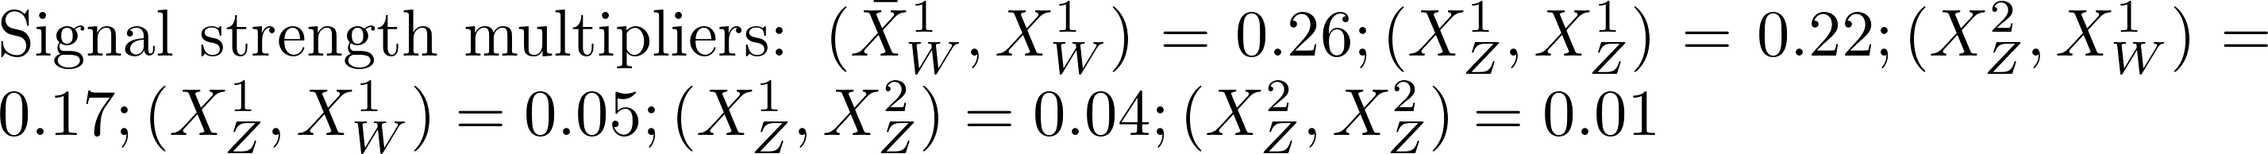
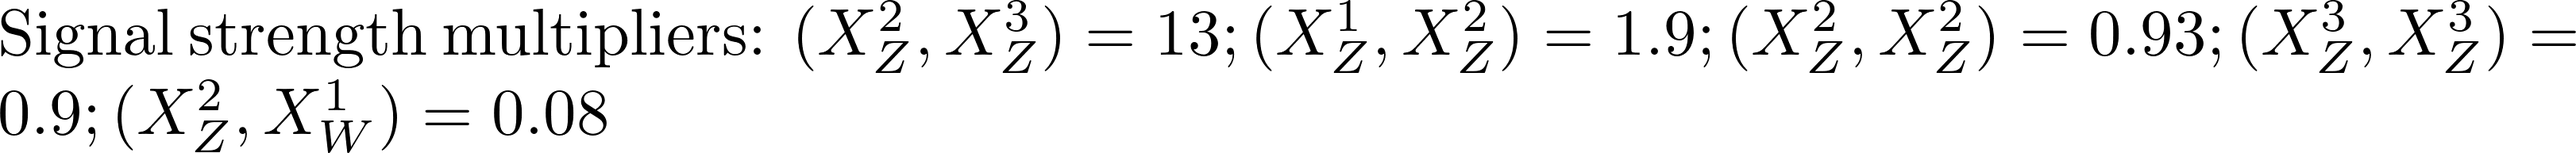
automated update by plotHiscore.py to walk322_2:     K=-117.113 TL=7.41 walkerid=310

diff --git a/protomodels/walk322_2/rawnumbers.html b/protomodels/walk322_2/rawnumbers.html
@@ -1,17 +1,13 @@
 <table>
 <tr><th>Analysis Name</th><th>Type</th><th>Dataset</th><th>Topos</th><th>Observed</th><th>Expected</th><th>Approx &sigma;</th><th>Particles</th>
 </tr>
-<tr><td><a href=https://atlas.web.cern.ch/Atlas/GROUPS/PHYSICS/PAPERS/EXOT-2018-06/>ATLAS-EXOT-2018-06</a></td><td>em</td> <td>EM10</td><td>TChiISR, TChiWISRll, TChiWWISRqq, TChiZISRll, TChiZISRqq</td><td>413</td><td>359.00 +/- 10.00</td><td style="text-align:right">2.4 &sigma;</td><td style="text-align:right">X<sup>1</sup><sub>W</sub>, X<sup>2</sup><sub>Z</sub>, X<sup>1</sup><sub>Z</sub></td></tr>
-<tr><td><a href=http://cms-results.web.cern.ch/cms-results/public-results/publications/EXO-20-004/>CMS-EXO-20-004</a></td><td>comb</td> <td>-</td><td>TChiISR, TChiWISRll, TChiWWISRqq, TChiZISRll, TChiZISRqq</td><td> 9e+01 fb </td><td> 7e+01 fb</td><td style="text-align:right">2.3 &sigma;</td><td style="text-align:right">X<sup>1</sup><sub>W</sub>, X<sup>2</sup><sub>Z</sub>, X<sup>1</sup><sub>Z</sub></td></tr>
-<tr><td><a href=https://atlas.web.cern.ch/Atlas/GROUPS/PHYSICS/PAPERS/SUSY-2018-06/>ATLAS-SUSY-2018-06</a></td><td>em</td> <td>SR_ISR</td><td>TChiWZoff</td><td>30</td><td>23.40 +/- 2.10</td><td style="text-align:right">1.1 &sigma;</td><td style="text-align:right">X<sup>1</sup><sub>W</sub>, X<sup>2</sup><sub>Z</sub>, X<sup>1</sup><sub>Z</sub></td></tr>
-<tr><td><a href=https://atlas.web.cern.ch/Atlas/GROUPS/PHYSICS/PAPERS/SUSY-2013-02/>ATLAS-SUSY-2013-02</a></td><td>em</td> <td>SR4jlm</td><td>T1</td><td>2169</td><td>2120.00 +/- 110.00</td><td style="text-align:right">0.4 &sigma;</td><td style="text-align:right">X<sup>1</sup><sub>W</sub>, X<sup>2</sup><sub>Z</sub>, X<sup>1</sup><sub>Z</sub></td></tr>
-<tr><td><a href=https://atlas.web.cern.ch/Atlas/GROUPS/PHYSICS/PAPERS/SUSY-2018-16/>ATLAS-SUSY-2018-16-hino</a></td><td>em</td> <td>SR_ewk_2l_low</td><td>TChiZoff</td><td>199</td><td>198.30 +/- 11.80</td><td style="text-align:right">0.0 &sigma;</td><td style="text-align:right">X<sup>2</sup><sub>Z</sub>, X<sup>1</sup><sub>Z</sub></td></tr>
-<tr><td><a href=https://atlas.web.cern.ch/Atlas/GROUPS/PHYSICS/PAPERS/SUSY-2013-11/>ATLAS-SUSY-2013-11</a></td><td>em</td> <td>WWa-DF</td><td>TChiWWoff</td><td>70</td><td>73.60 +/- 7.90</td><td style="text-align:right">-0.3 &sigma;</td><td style="text-align:right">X<sup>1</sup><sub>W</sub>, X<sup>1</sup><sub>Z</sub></td></tr>
-<tr><td><a href=https://atlas.web.cern.ch/Atlas/GROUPS/PHYSICS/PAPERS/SUSY-2013-12/>ATLAS-SUSY-2013-12</a></td><td>em</td> <td>SR0tau_a_Bin16</td><td>TChiWZoff</td><td>3</td><td>4.60 +/- 1.70</td><td style="text-align:right">-0.7 &sigma;</td><td style="text-align:right">X<sup>1</sup><sub>W</sub>, X<sup>2</sup><sub>Z</sub>, X<sup>1</sup><sub>Z</sub></td></tr>
-<tr><td><a href=http://cms-results.web.cern.ch/cms-results/public-results/publications/SUS-16-039/index.html>CMS-SUS-16-039-agg</a></td><td>comb</td> <td>-</td><td>TChiWZoff</td><td> 2 fb </td><td> 1 fb</td><td style="text-align:right">-2.2 &sigma;</td><td style="text-align:right">X<sup>1</sup><sub>W</sub>, X<sup>2</sup><sub>Z</sub>, X<sup>1</sup><sub>Z</sub></td></tr>
-<tr><td><a href=http://cms-results.web.cern.ch/cms-results/public-results/publications/SUS-16-048/index.html>CMS-SUS-16-048</a></td><td>comb</td> <td>-</td><td>TChiWZoff</td><td> 2 fb </td><td> 2 fb</td><td style="text-align:right">-2.3 &sigma;</td><td style="text-align:right">X<sup>1</sup><sub>W</sub>, X<sup>2</sup><sub>Z</sub>, X<sup>1</sup><sub>Z</sub></td></tr>
+<tr><td><a href=https://atlas.web.cern.ch/Atlas/GROUPS/PHYSICS/PAPERS/EXOT-2018-06/>ATLAS-EXOT-2018-06</a></td><td>em</td> <td>EM10</td><td>TChiISR</td><td>413</td><td>359.00 +/- 10.00</td><td style="text-align:right">2.4 &sigma;</td><td style="text-align:right">X<sup>2</sup><sub>Z</sub>, X<sup>1</sup><sub>Z</sub></td></tr>
+<tr><td><a href=http://cms-results.web.cern.ch/cms-results/public-results/publications/SUS-20-004/>CMS-SUS-20-004</a></td><td>comb</td> <td>-</td><td>TChiHH</td><td> 0.2 fb </td><td> 0.2 fb</td><td style="text-align:right">2.1 &sigma;</td><td style="text-align:right">X<sup>3</sup><sub>Z</sub>, X<sup>2</sup><sub>Z</sub></td></tr>
+<tr><td><a href=http://cms-results.web.cern.ch/cms-results/public-results/publications/EXO-20-004/>CMS-EXO-20-004</a></td><td>comb</td> <td>-</td><td>TChiISR</td><td> 3e+01 fb </td><td> 3e+01 fb</td><td style="text-align:right">1.0 &sigma;</td><td style="text-align:right">X<sup>2</sup><sub>Z</sub>, X<sup>1</sup><sub>Z</sub></td></tr>
+<tr><td><a href=http://cms-results.web.cern.ch/cms-results/public-results/publications/EXO-19-010/>CMS-EXO-19-010</a></td><td>em</td> <td>SR_nlay5</td><td>TDTM2F</td><td>6</td><td>3.70 +/- 1.24</td><td style="text-align:right">0.8 &sigma;</td><td style="text-align:right">X<sup>1</sup><sub>W</sub>, X<sup>2</sup><sub>Z</sub>, X<sup>1</sup><sub>Z</sub></td></tr>
+<tr><td><a href=https://atlas.web.cern.ch/Atlas/GROUPS/PHYSICS/PAPERS/SUSY-2018-42/>ATLAS-SUSY-2018-42</a></td><td>em</td> <td>SR300_High_long</td><td>TDTM2F</td><td>7</td><td>5.10 +/- 0.50</td><td style="text-align:right">0.7 &sigma;</td><td style="text-align:right">X<sup>1</sup><sub>W</sub>, X<sup>2</sup><sub>Z</sub>, X<sup>1</sup><sub>Z</sub></td></tr>
+<tr><td><a href=https://atlas.web.cern.ch/Atlas/GROUPS/PHYSICS/PAPERS/SUSY-2018-19/>ATLAS-SUSY-2018-19</a></td><td>em</td> <td>SR_EW</td><td>TDTM2F</td><td>3</td><td>3.00 +/- 0.70</td><td style="text-align:right">-0.2 &sigma;</td><td style="text-align:right">X<sup>1</sup><sub>W</sub>, X<sup>2</sup><sub>Z</sub>, X<sup>1</sup><sub>Z</sub></td></tr>
+<tr><td><a href=https://atlas.web.cern.ch/Atlas/GROUPS/PHYSICS/PAPERS/SUSY-2016-06/>ATLAS-SUSY-2016-06</a></td><td>em</td> <td>SR_EW</td><td>TDTM2F</td><td>9</td><td>11.80 +/- 3.10</td><td style="text-align:right">-0.7 &sigma;</td><td style="text-align:right">X<sup>1</sup><sub>W</sub>, X<sup>2</sup><sub>Z</sub>, X<sup>1</sup><sub>Z</sub></td></tr>
 </table>
 <table style='color:grey'>
-<tr><th>Not in Best Combo</th><th>Type</th><th>Dataset</th><th>Topos</th><th>Observed</th><th>Expected</th><th>Approx &sigma;</th><th>Particles</th><tr><td><a href=https://atlas.web.cern.ch/Atlas/GROUPS/PHYSICS/PAPERS/SUSY-2019-09/>ATLAS-SUSY-2019-09</a></td><td>comb</td> <td>-</td><td>TChiWZoff</td><td> 0.4 fb </td><td> 0.3 fb</td><td style="text-align:right">1.1 &sigma;</td><td style="text-align:right">X<sup>1</sup><sub>W</sub>, X<sup>2</sup><sub>Z</sub>, X<sup>1</sup><sub>Z</sub></td></tr>
-<tr><td><a href=http://cms-results.web.cern.ch/cms-results/public-results/publications/SUS-18-004/index.html>CMS-SUS-18-004-wbplus-agg</a></td><td>comb</td> <td>-</td><td>TChiWZoff</td><td> 0.05 fb </td><td> 0.05 fb</td><td style="text-align:right">-2.3 &sigma;</td><td style="text-align:right">X<sup>1</sup><sub>W</sub>, X<sup>2</sup><sub>Z</sub>, X<sup>1</sup><sub>Z</sub></td></tr>
-</table>
+<tr><th>Not in Best Combo</th><th>Type</th><th>Dataset</th><th>Topos</th><th>Observed</th><th>Expected</th><th>Approx &sigma;</th><th>Particles</th></table>

diff --git a/protomodels/walk322_2/index.html b/protomodels/walk322_2/index.html
@@ -1,27 +1,27 @@
 <html>
 <body>
 <center>
-<table><td><h1>Current best protomodel: <i>K</i>=2.13, <i>TL</i>=12.03</h1><td><img height=60px src=https://smodels.github.io//protomodels/logos/protomodel_lego.png></table>
+<table><td><h1>Current best protomodel: <i>K</i>=-117.11, <i>TL</i>=7.41</h1><td><img height=60px src=https://smodels.github.io//protomodels/logos/protomodel_lego.png></table>
 </center>
-<b><a href=./hiscore.slha>ProtoModel</a> <a href=./pmodel.dict>(dict)</a> produced with <a href=https://smodels.github.io//docs/Validation321>database v3.2.1</a>, allowed_extr 0.0 in walker 301 step 0.</b> <br>
+<b><a href=./hiscore.slha>ProtoModel</a> <a href=./pmodel.dict>(dict)</a> produced with <a href=https://smodels.github.io//docs/Validation321>database v3.2.1</a>, allowed_extr 0.0 in walker 310 step 6.</b> <br>
 <table width=80%>
 <tr><td>
 <br><b>Critics:</b> passed both critics<br>
-<br><b>UL Critic: 1/2 analyses exclude</b><br>
-CMS-SUS-23-003:ul:: <span style='color: darkred;'>r<sub>obs</sub>=4.37, r<sub>exp</sub>=10.092</span><br>
-ATLAS-EXOT-2018-06:EM5:: <span style='color: darkgreen;'>r<sub>obs</sub>=1.321, r<sub>exp</sub>=1.369</span><br>
-CMS-EXO-20-004:SR_2018_11:: <span style='color: darkgreen;'>r<sub>obs</sub>=0.341, r<sub>exp</sub>=0.479</span><br>
-<br><b>LLHD Critic:</b> ATLAS-EXOT-2018-06:EM5, CMS-EXO-20-004:CMS-EXO-20-004:matrix.cov, ATLAS-SUSY-2013-11:WWa-DF:: <span style='color: darkred;'>r<sub>obs</sub>=1.09, r<sub>exp</sub>=2.25</span><br>
+<br><b>UL Critic: 0/2 analyses exclude</b><br>
+ATLAS-SUSY-2018-19:SR_EW:: <span style='color: darkgreen;'>r<sub>obs</sub>=0.806, r<sub>exp</sub>=0.784</span><br>
+CMS-EXO-19-010:SR_nlay6p:: <span style='color: darkgreen;'>r<sub>obs</sub>=0.542, r<sub>exp</sub>=0.332</span><br>
+ATLAS-EXOT-2018-06:EM12:: <span style='color: darkgreen;'>r<sub>obs</sub>=0.413, r<sub>exp</sub>=0.345</span><br>
+<br><b>LLHD Critic:</b> CMS-SUS-20-004:CMS-SUS-20-004:matrix.cov, ATLAS-SUSY-2018-19:SR_EW, CMS-EXO-19-010:SR_nlay6p, ATLAS-EXOT-2018-06:EM12, CMS-EXO-20-004:CMS-EXO-20-004:matrix.cov, ATLAS-SUSY-2016-06:SR_EW:: <span style='color: darkgreen;'>r<sub>obs</sub>=0.8, r<sub>exp</sub>=1.44</span><br>
 </ul>
-<td><img width=600px src=./texdoc.png?1793625420>
-<br><span style='font-size: smaller; color: darkred;'>Last updated: Mon Nov  2 14:17:00 2026</span>
-<br><br><b>17 predictions available. Highest r values are:</b><br><ul>
-<li><a href=https://cms-results.web.cern.ch/cms-results/public-results/publications/SUS-23-003/index.html>CMS-SUS-23-003</a>:ul:TChiWWoff r=4.37, r<sub>exp</sub>=10.09<br>
-<li><a href=https://atlas.web.cern.ch/Atlas/GROUPS/PHYSICS/PAPERS/EXOT-2018-06/>ATLAS-EXOT-2018-06</a>:EM5:TChiZISRqq,TChiWISRll,TChiWWISRqq,TChiISR,TChiZISRll r=1.32, r<sub>exp</sub>=1.37<br>
-<li><a href=http://cms-results.web.cern.ch/cms-results/public-results/publications/EXO-20-004/>CMS-EXO-20-004</a>:SR_2018_11:TChiZISRqq,TChiWISRll,TChiWWISRqq,TChiISR,TChiZISRll r=0.34, r<sub>exp</sub>=0.48<br>
-<li><a href=https://atlas.web.cern.ch/Atlas/GROUPS/PHYSICS/PAPERS/SUSY-2013-11/>ATLAS-SUSY-2013-11</a>:WWa-DF:TChiWWoff r=0.11, r<sub>exp</sub>=0.10<br>
+<td><img width=600px src=./texdoc.png?1793625862>
+<br><span style='font-size: smaller; color: darkred;'>Last updated: Mon Nov  2 14:24:22 2026</span>
+<br><br><b>7 predictions available. Highest r values are:</b><br><ul>
+<li><a href=https://atlas.web.cern.ch/Atlas/GROUPS/PHYSICS/PAPERS/SUSY-2018-19/>ATLAS-SUSY-2018-19</a>:SR_EW:TDTM2F r=0.81, r<sub>exp</sub>=0.78<br>
+<li><a href=http://cms-results.web.cern.ch/cms-results/public-results/publications/EXO-19-010/>CMS-EXO-19-010</a>:SR_nlay6p:TDTM2F r=0.54, r<sub>exp</sub>=0.33<br>
+<li><a href=https://atlas.web.cern.ch/Atlas/GROUPS/PHYSICS/PAPERS/EXOT-2018-06/>ATLAS-EXOT-2018-06</a>:EM12:TChiISR r=0.41, r<sub>exp</sub>=0.34<br>
+<li><a href=http://cms-results.web.cern.ch/cms-results/public-results/publications/SUS-20-004/>CMS-SUS-20-004</a>:ul:TChiHH r=0.39, r<sub>exp</sub>=0.76<br>
 </table><table style="width:80%">
-<td width=40%><img height=450px src=./mass_hierarchy.png?1793625420><td width=60%><font size=-3><iframe type="text/html" height="350px" width="100%" frameborder="0" src="./rawnumbers.html?1793625420"></iframe></font>
+<td width=40%><img height=450px src=./mass_hierarchy.png?1793625862><td width=60%><font size=-3><iframe type="text/html" height="350px" width="100%" frameborder="0" src="./rawnumbers.html?1793625862"></iframe></font>
 </table>
 </body>
 </html>
